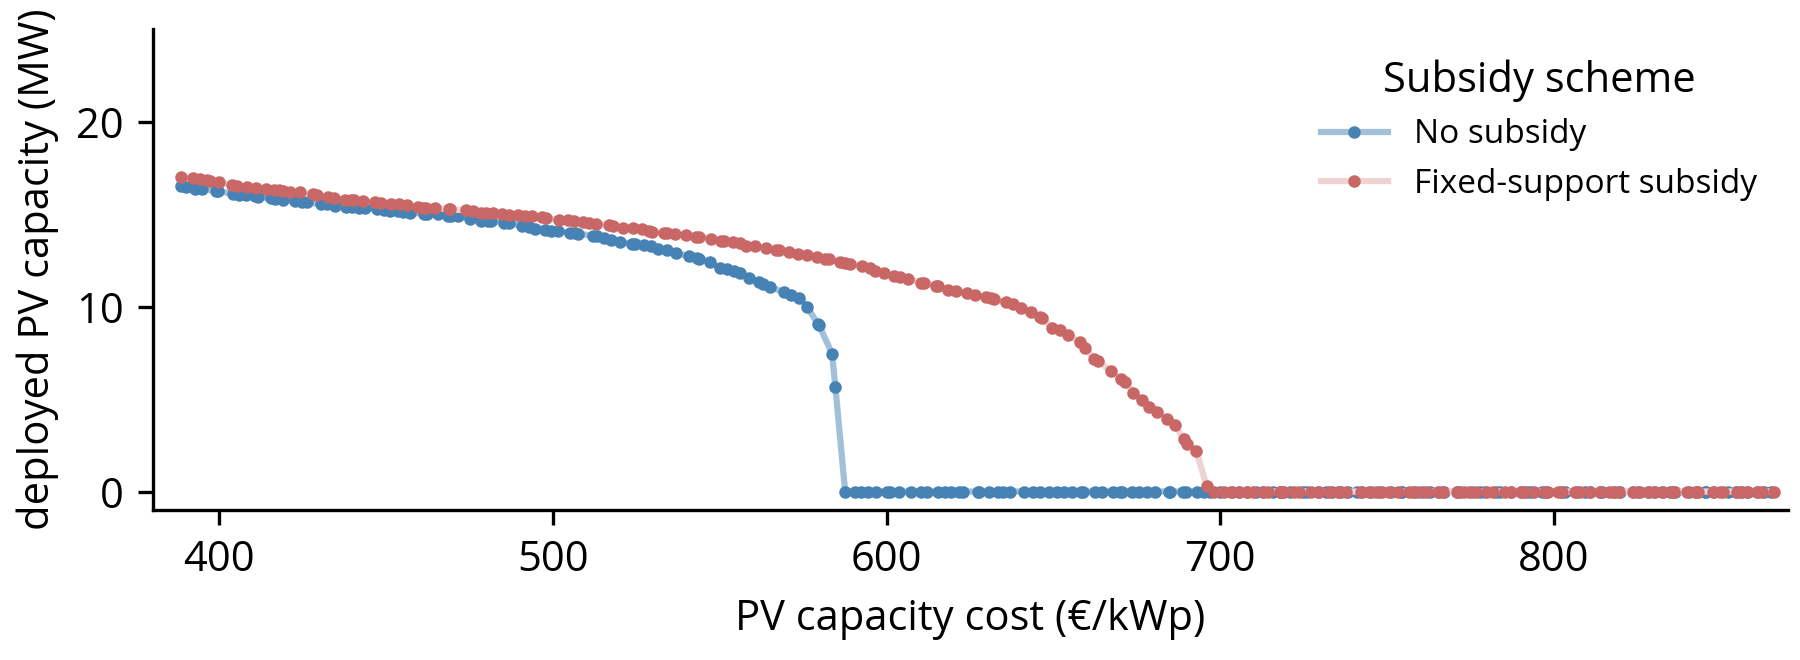
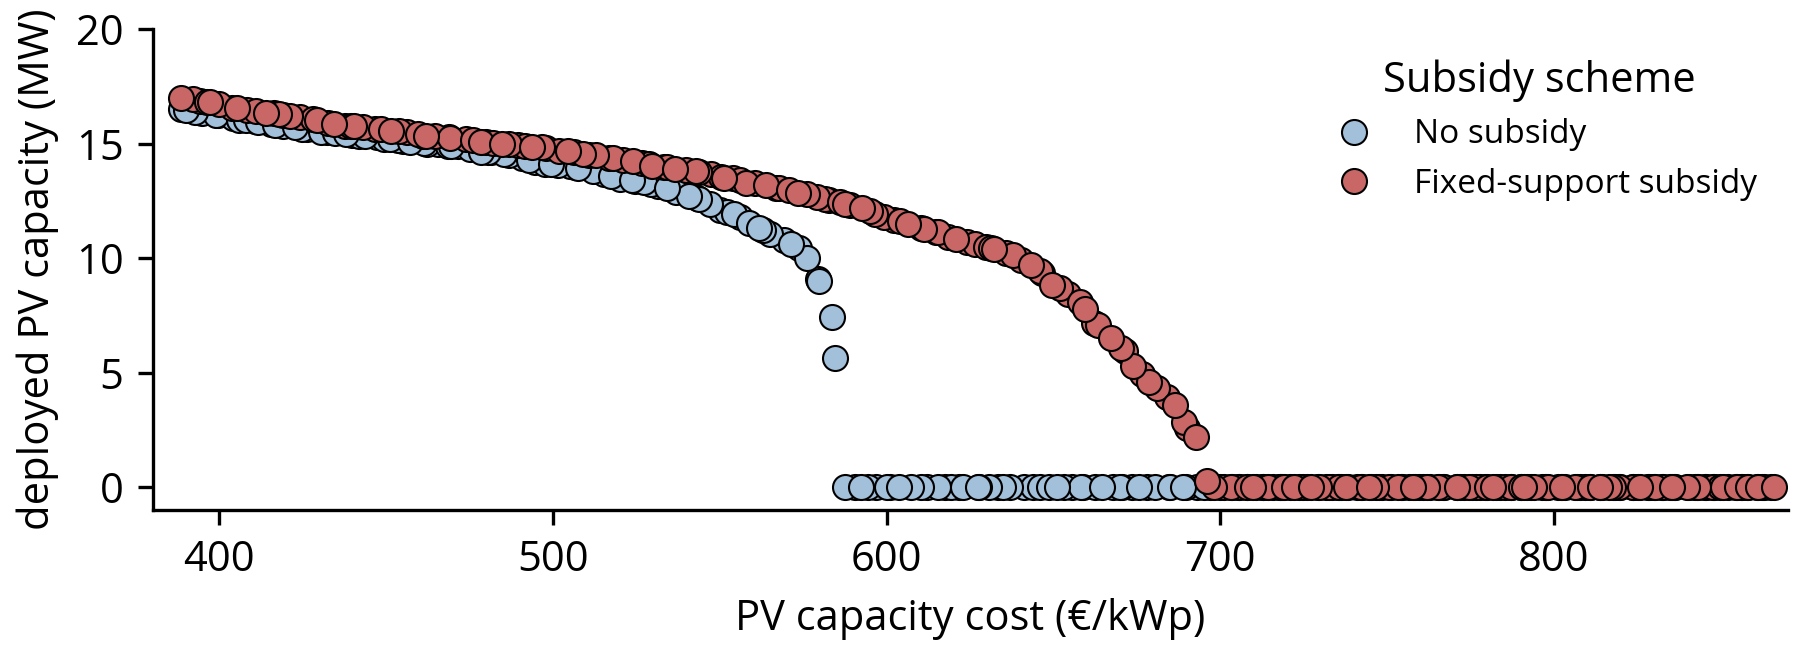
some nit picky changes

diff --git a/thesis scripts/experiments/cablepool/analysis/report_cablepool_postprocess_no_subsidy.py b/thesis scripts/experiments/cablepool/analysis/report_cablepool_postprocess_no_subsidy.py
@@ -41,7 +41,7 @@ sns.scatterplot(
 )
 
 ax.set_ylabel("deployed PV capacity (MW)")
-ax.set_ylim([-1, 35])
+ax.set_ylim([-1, 20])
 
 ax.set_xlabel("PV capacity cost (€/kWp)")
 ax.set_xlim([380, 870])
@@ -144,36 +144,32 @@ df2["pv_cost_absolute"] = df2.pv_cost_factor * 1020
 #%%
 from LESO.plotting import steelblue_05, firebrick_02, firebrick_05
 
-df.sort_values("pv_cost_absolute", inplace=True)
-df2.sort_values("pv_cost_absolute", inplace=True)
-
-
 fig, ax = plt.subplots()
 fig, ax = default_matplotlib_style(fig, ax)
 fig.set_size_inches(6, 2.2)
 ax.plot(
     df["pv_cost_absolute"],
     df[pv_col],
-    '-o',
-    markersize=2,
-    color=steelblue_05,
-    markerfacecolor="steelblue",
-    markeredgecolor="steelblue",
+    'o',
+    markersize=6,
+    markerfacecolor=steelblue_05,
+    markeredgecolor="black",
+    markeredgewidth=0.5,
     label='No subsidy'
 )
 ax.plot(
     df2["pv_cost_absolute"],
     df2[pv_col],
-    '-o',
-    markersize=2,
-    color=firebrick_02,
+    'o',
+    markersize=6,
     markerfacecolor=firebrick_05,
-    markeredgecolor=firebrick_05,
+    markeredgecolor="black",
+    markeredgewidth=0.5,
     label='Fixed-support subsidy'
 )
 
 ax.set_ylabel("deployed PV capacity (MW)")
-ax.set_ylim([-1, 25])
+ax.set_ylim([-1, 20])
 
 ax.set_xlabel("PV capacity cost (€/kWp)")
 ax.set_xlim([380, 870])
